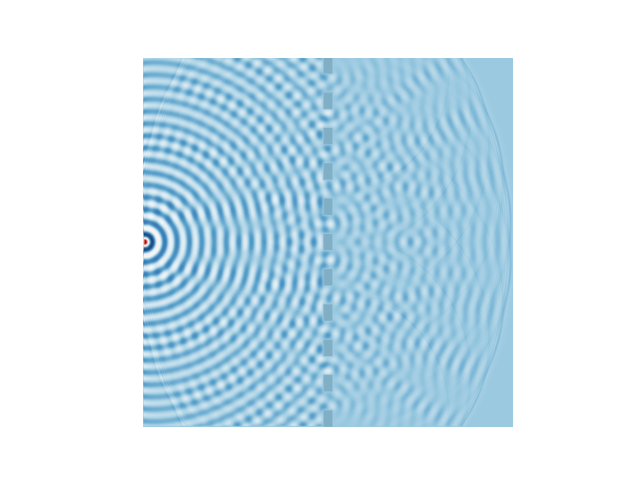
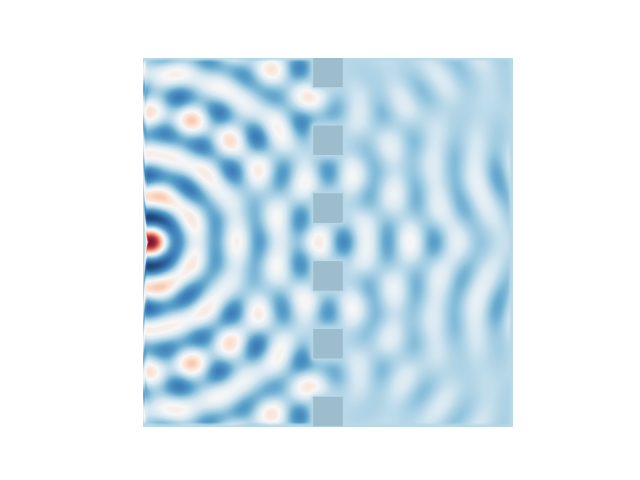
added functions for handling gif creation

diff --git a/diffractionSimulation.py b/diffractionSimulation.py
@@ -1,17 +1,22 @@
 import meep as mp
 import numpy as np
 import matplotlib.pyplot as plt
+import os
+import h5py
 
 class globalVariables():
-    waveguideXSize = 200
-    waveguideYSize = 200
+    waveguideXSize = 60
+    waveguideYSize = 60
     epsilonOfMaterial = 1
     epsilonOfBoundary = 1000
     blockXSize = 5
     blockYSize = 15
-    numberOfSlitsForDiffractionGrating = 10
-    diffractionGratingSlitSize = 10
-
+    numberOfSlitsForDiffractionGrating = 5
+    diffractionGratingSlitSize = 6
+    resolution = 10
+    projectName = "diffractionSimulation"
+    h5Name = "ez"
+    imageStorageDirectory = projectName +'-out'
 
 def generateDiffractionBlock(blockx,blocky):
     block = mp.Block(mp.Vector3(globalVariables.blockXSize,globalVariables.blockYSize,0),
@@ -96,19 +101,63 @@ def plot_data(sim,cell):
     plt.imshow(ez_data.transpose(), interpolation='spline36', cmap='RdBu', alpha=0.9)
     plt.axis('off')
     plt.savefig("diffraction_grating.png")
-    plt.show()
 
+
+def pngToGIF():
+    gifCreationString = "convert " + globalVariables.imageStorageDirectory + "/" + globalVariables.projectName + "-" + globalVariables.h5Name + "-*.png " + globalVariables.imageStorageDirectory + "/" + globalVariables.projectName + ".gif"
+    print(gifCreationString)
+    os.system(gifCreationString)
+
+def compressGIF(scalingFactor):
+    print("Did I get here for GIF compression?")
+    gifCompressionString = "gifsicle -O3 --colors=128 --scale=" + str(scalingFactor) + " -i " + globalVariables.imageStorageDirectory + "/" + globalVariables.projectName + ".gif" + " -o " + globalVariables.imageStorageDirectory + "/" + globalVariables.projectName + "compressed" + ".gif"
+    print(gifCompressionString)
+    os.system(gifCompressionString)
+
+def countNumberOfPNG():
+    pngCountString = "ls " + globalVariables.imageStorageDirectory + "/" + "*.png | wc -l"
+    count = os.system(pngCountString)
+    return int(count)
+
+def deletePNG():
+    print("Number of PNG Files in directory before is :" + str(countNumberOfPNG()))
+    deletePNGString = "rm " + globalVariables.imageStorageDirectory + "/" + globalVariables.projectName + "*.png"
+    os.system(deletePNGString)
+    print("Number of PNG Files in directory after is :" + str(countNumberOfPNG()))
+
+def deleteCompressedGIF():
+    pass
+
+
+'''
+Creates a gif from the hdf5 file.
+'''
+def inPlaceGifCreation(compressGIFBool=True, compressGIFScale=0.5 ,deletePNGBool=True,generateGIF=True,deleteUncompressedGIF=False):
+    pngToGIF()
+
+    if(compressGIFBool==True):
+        compressGIF(scalingFactor=compressGIFScale)
+
+    if(deletePNGBool==True):
+        deletePNG()
+
+
+def removeH5Files():
+    pass
 
 if __name__=="__main__":
     #cell, geometry, sources, pml_layers = createDiffractionSlit()
     cell , geometry , sources , pml_layers = createDiffractionGrating()
-    resolution = 10
+    resolution = globalVariables.resolution
     sim = mp.Simulation(cell_size=cell,
                     boundary_layers=pml_layers,
                     geometry=geometry,
                     sources=sources,
                     resolution=resolution)
-    sim.run(mp.at_beginning(mp.output_epsilon),
-        mp.to_appended("ez", mp.at_every(0.6, mp.output_efield_z)),
-        until=200)
+    sim.use_output_directory()
+    #sim.run(mp.at_beginning(mp.output_epsilon),
+       # mp.to_appended("ez", mp.at_every(0.6, mp.output_png(mp.Ez,"-Zc dkbluered"))),
+       # until=200)
+    sim.run(mp.at_every(0.6 , mp.output_png(mp.Ez, "-Zc dkbluered")), until=200)
     plot_data(sim,cell)
+    inPlaceGifCreation()

diff --git a/README.md b/README.md
@@ -5,4 +5,4 @@ The purpose of this project is to simulate a diffraction grating using meep.
 
 The following results were created using the diffraction grating code I have created.
 
-![](compressed.gif)
+![](diffractionSimulationcompressed.gif)
